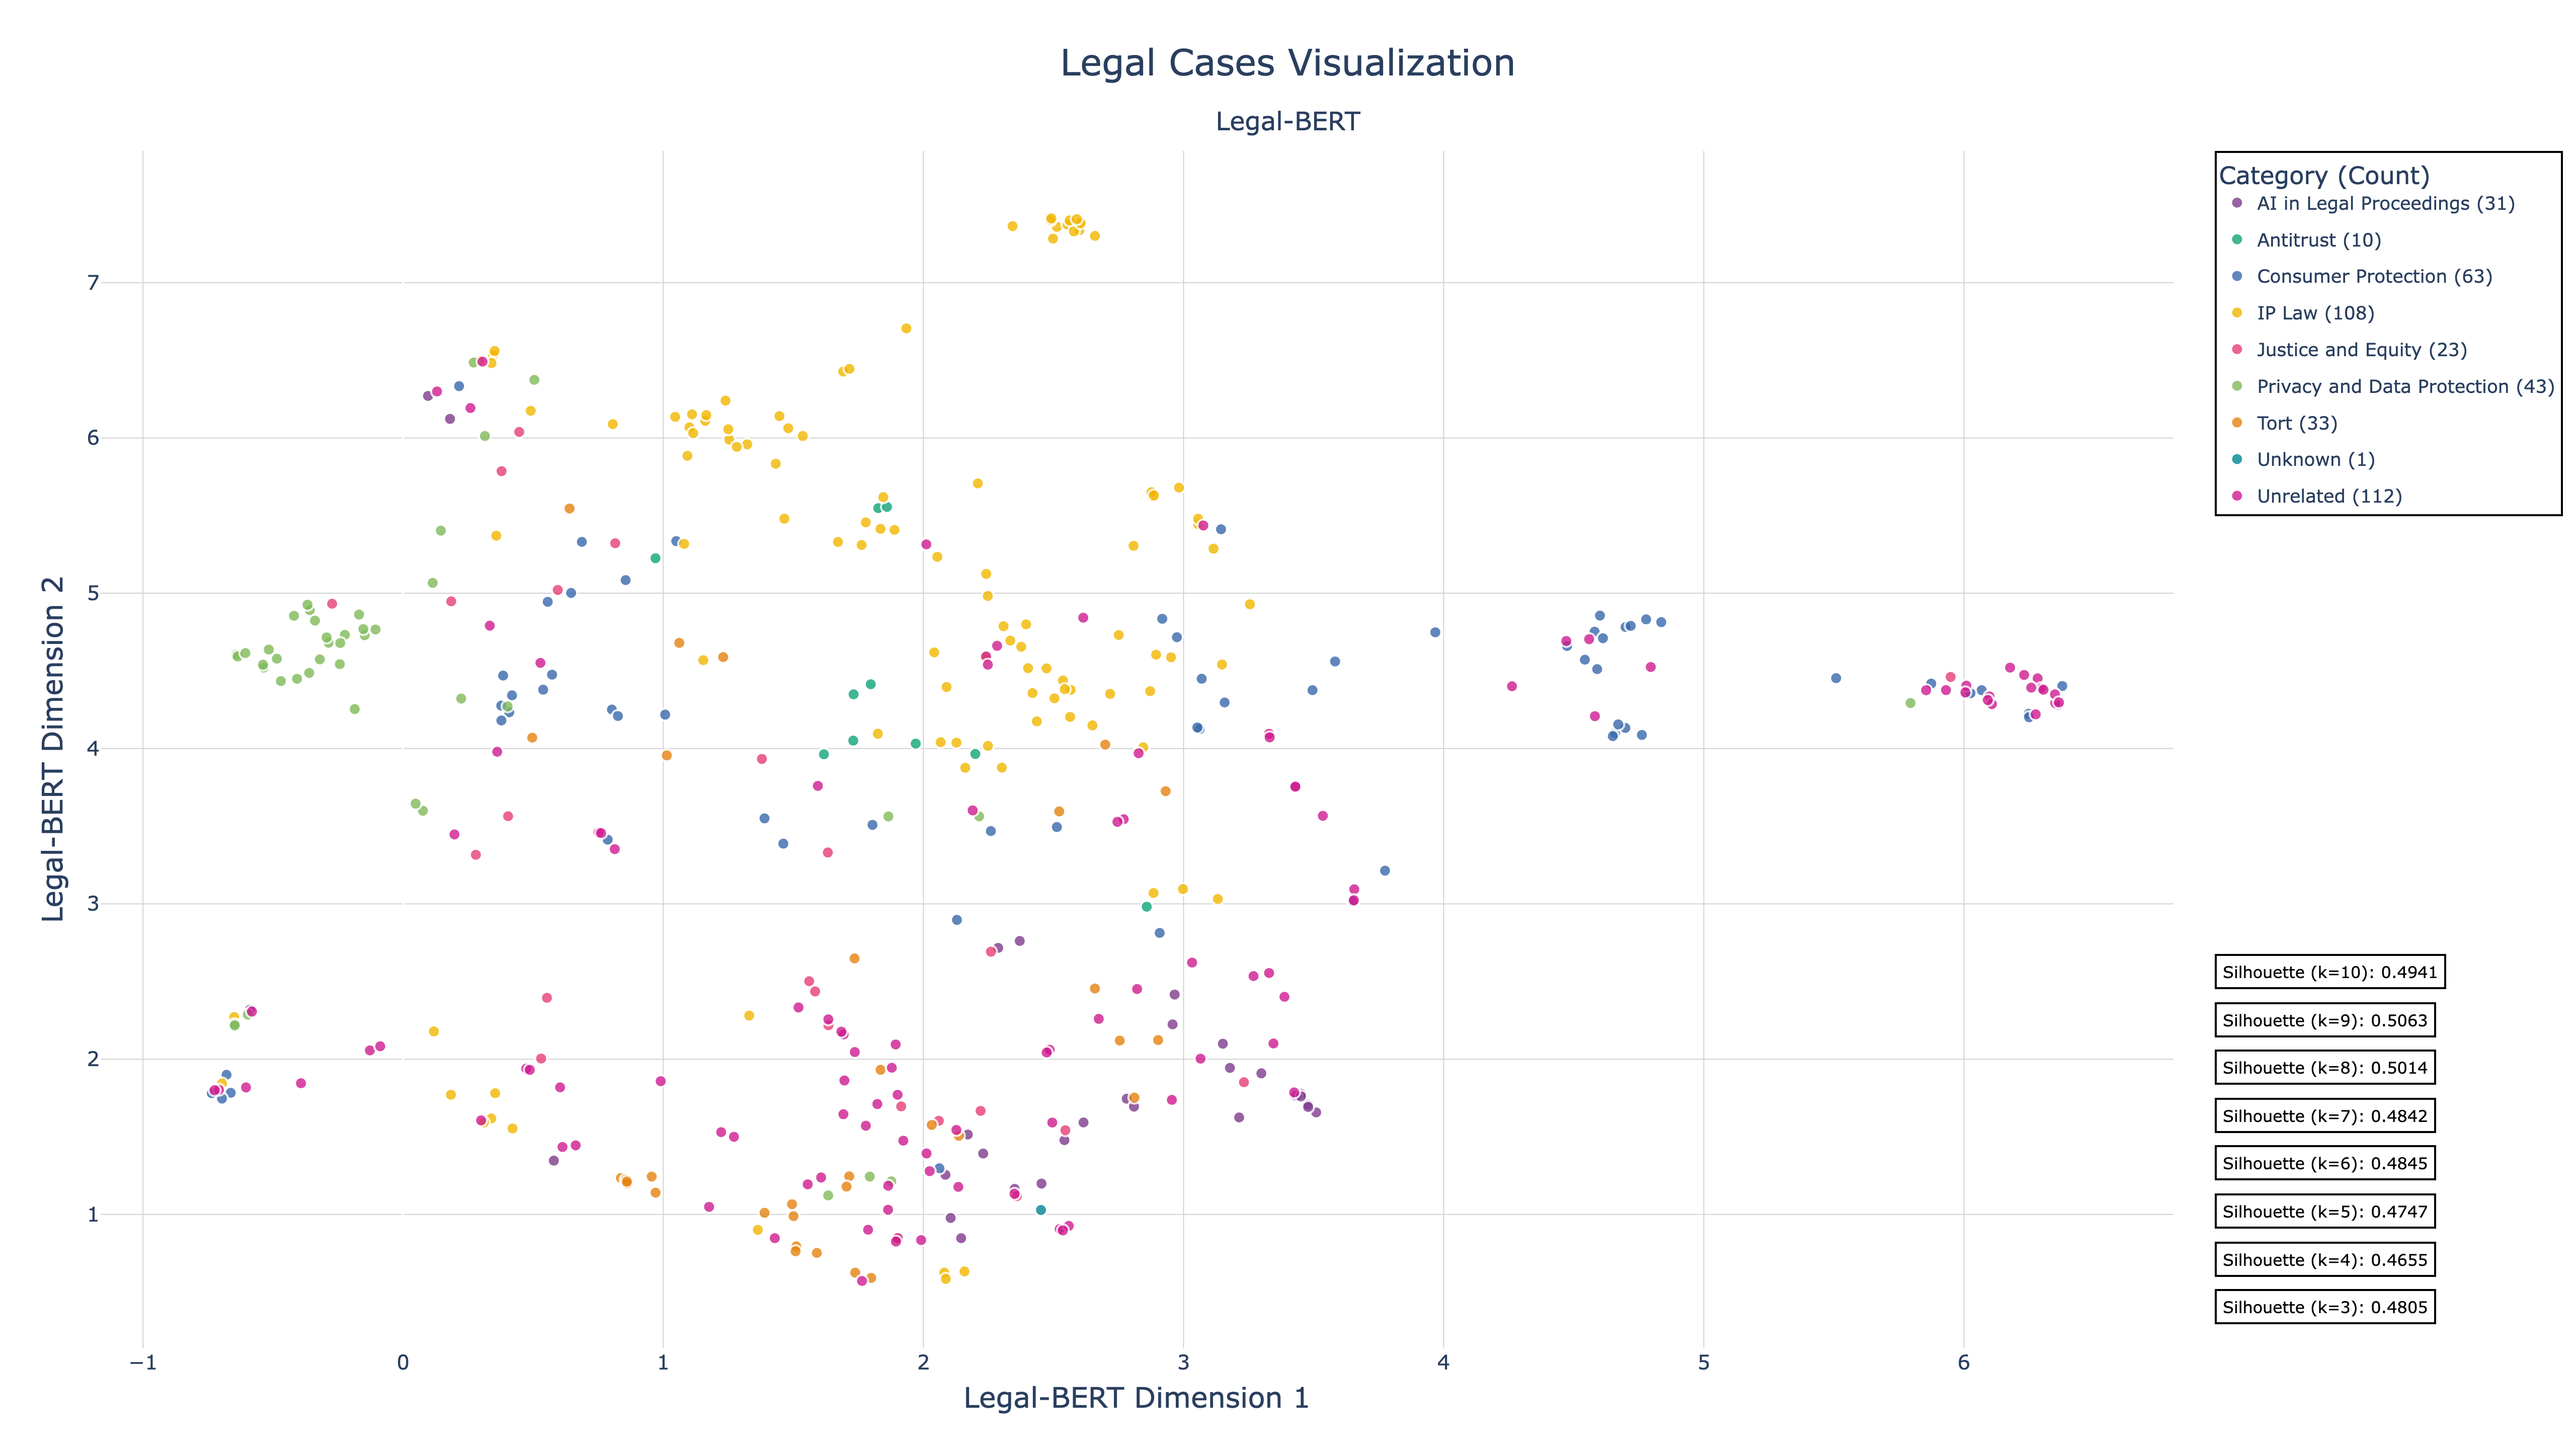
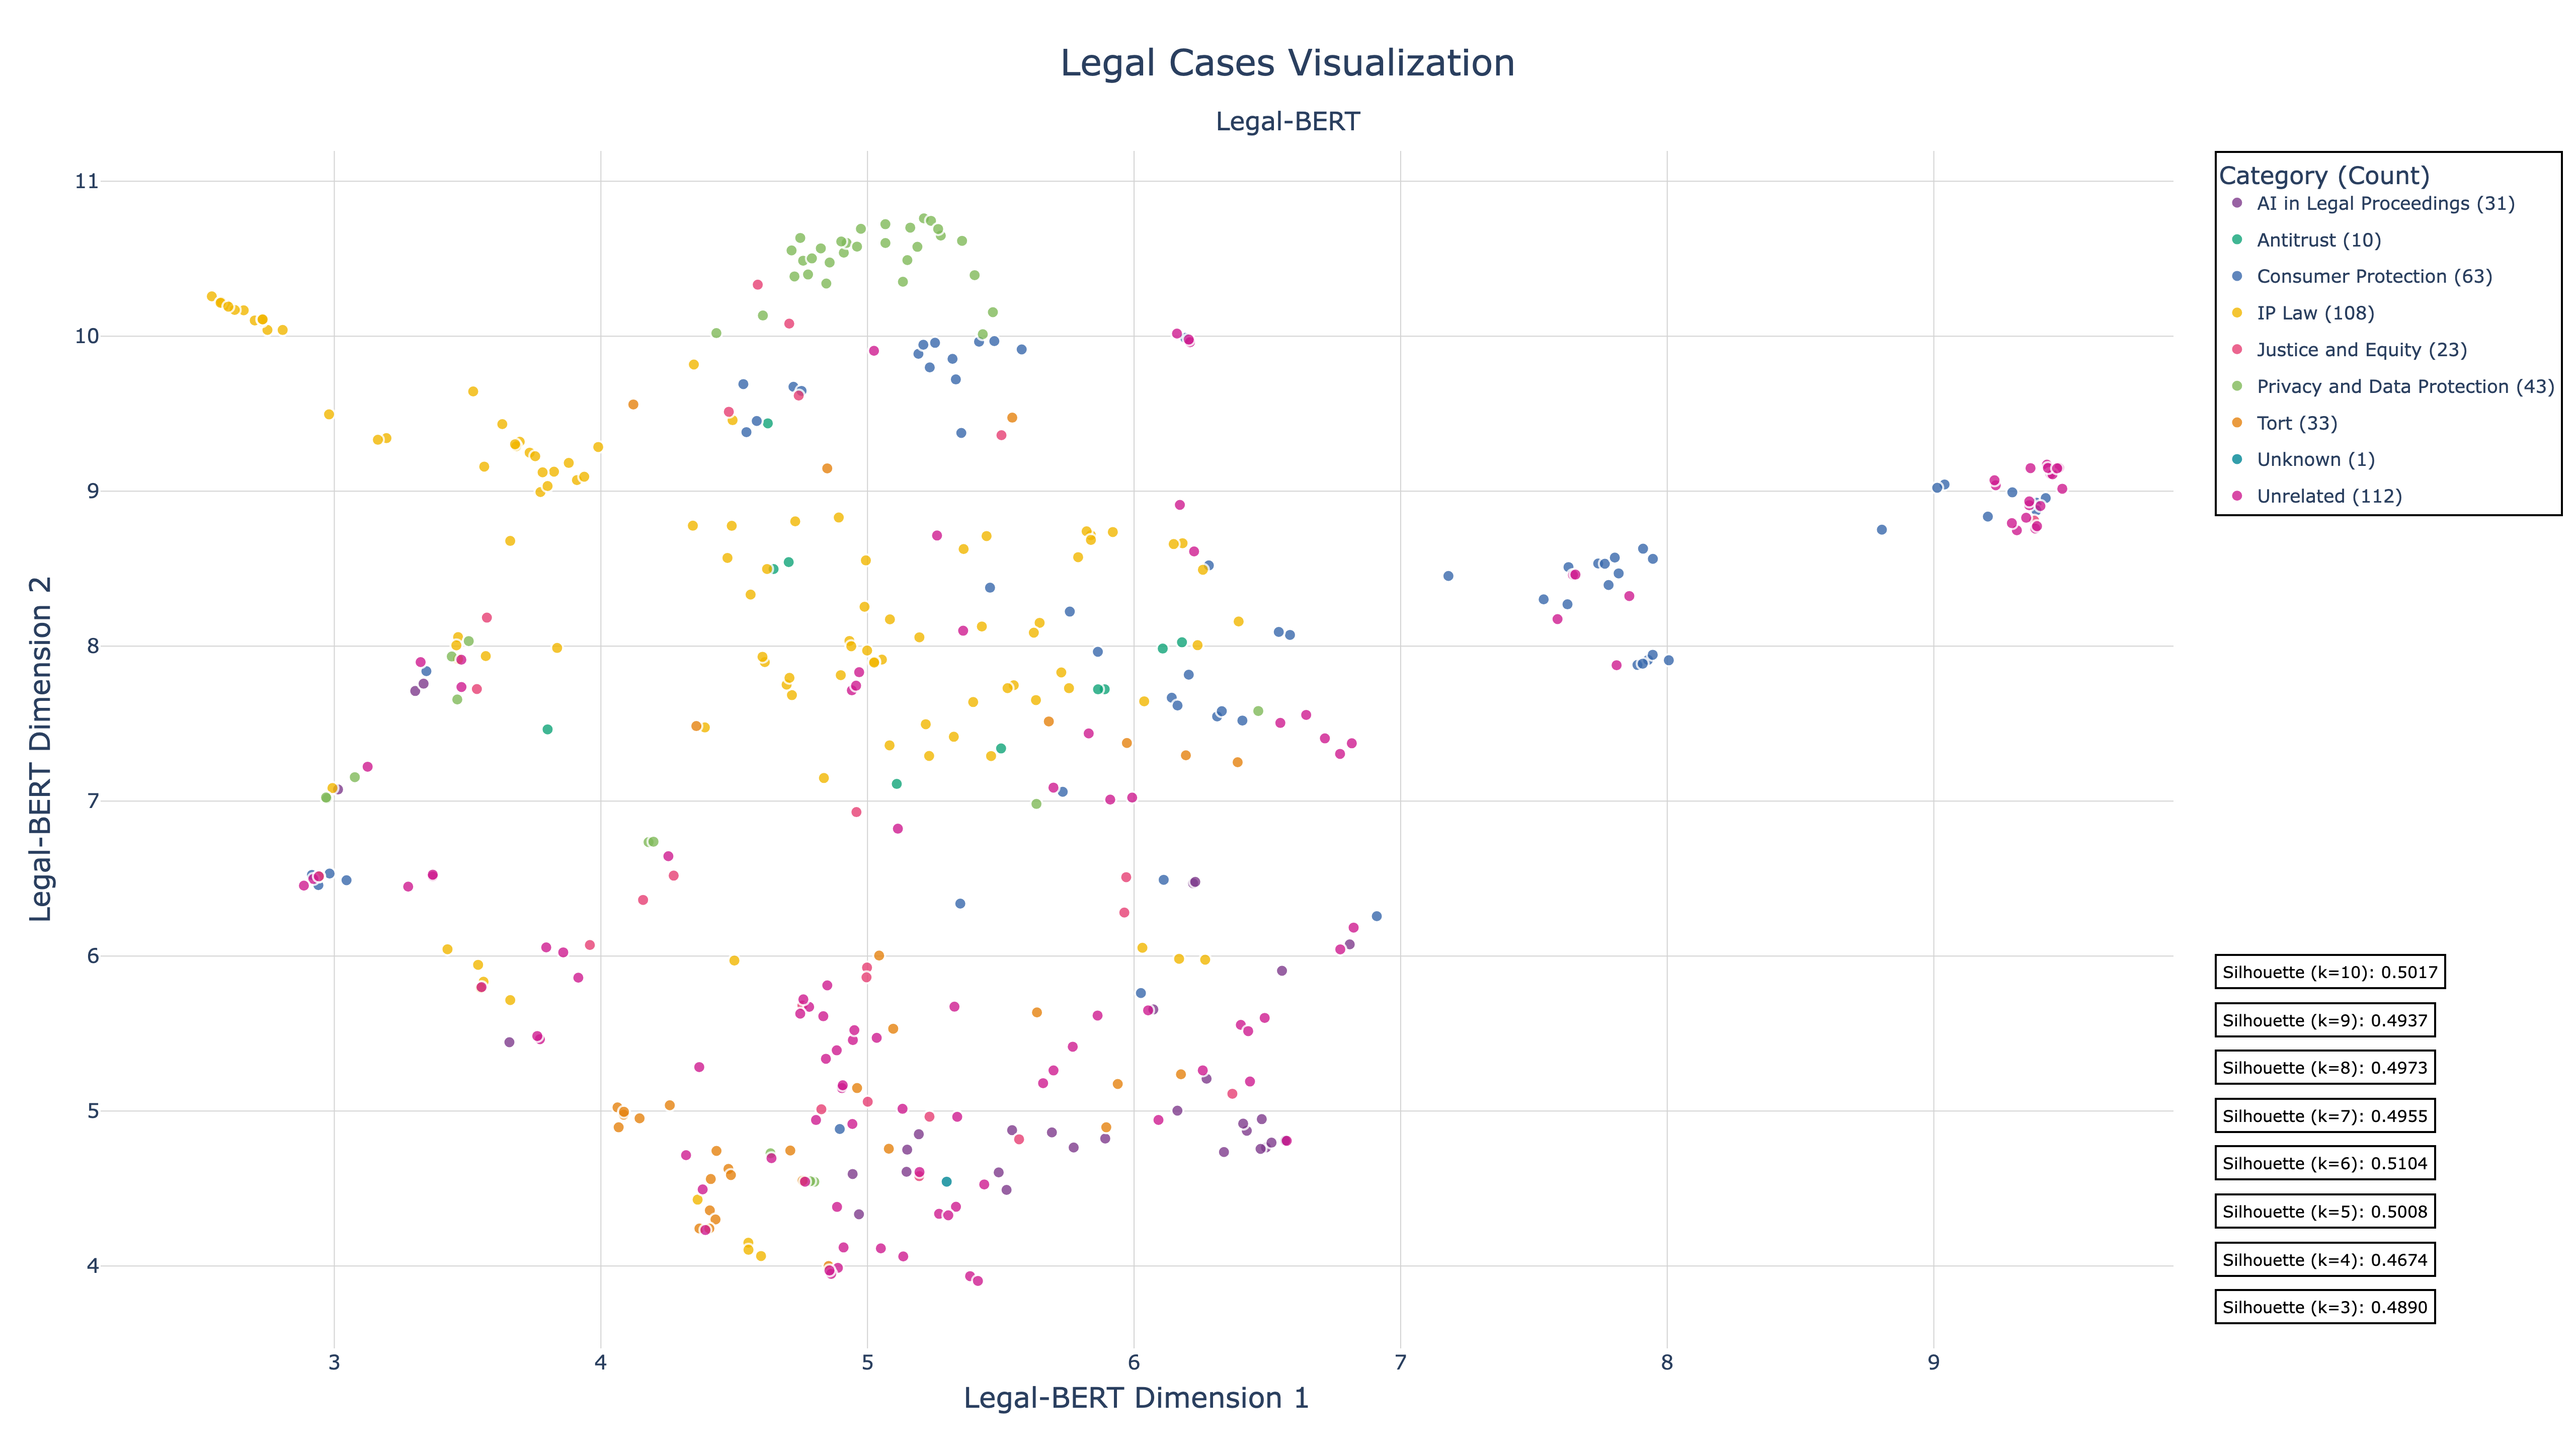
HDBSCAN

diff --git a/hdbscan_vis_getter_summary.py b/hdbscan_vis_getter_summary.py
@@ -9,6 +9,7 @@ from collections import Counter
 import textwrap
 import re
 import hdbscan
+from sklearn.metrics import silhouette_score
 
 # ---------------------------
 # Config
@@ -16,9 +17,8 @@ import hdbscan
 DIR_PATH = 'STEP 2: get embed/summaries/categorized_cases.json'
 UMAP_EMBED = 'STEP 3: umap/summary/umap_embedding.npy'
 TEXT_TYPE = "summary"
-MIN_DIST = 0.01
-N_NEIGHBORS = 15
-
+MIN_CLUSTER_SIZE = 10
+MIN_SAMPLES = 10
 
 # ---------------------------
 # Helpers
@@ -60,21 +60,42 @@ def wrap_text(text, width=60):
     """Helper function to wrap text for better display"""
     return '<br>'.join(textwrap.wrap(str(text), width=width))
 
-def perform_hdbscan(embedding, min_cluster_size=10, min_samples=10):
+def perform_hdbscan(embedding):
     """Perform HDBSCAN clustering on UMAP embeddings."""
     clusterer = hdbscan.HDBSCAN(
-        min_cluster_size=min_cluster_size,
-        min_samples=min_samples,
+        min_cluster_size=MIN_CLUSTER_SIZE,
+        min_samples=MIN_SAMPLES,
         gen_min_span_tree=True
     )
     labels = clusterer.fit_predict(embedding)
     return labels, clusterer
 
+def calculate_hdbscan_silhouette(X, labels):
+    """
+    Calculate silhouette score for HDBSCAN clustering.
+    Returns None if there are fewer than 2 clusters (ignoring noise).
+    """
+    # Filter out noise points (-1)
+    mask = labels != -1
+    if mask.sum() == 0:
+        print("All points classified as noise, cannot compute silhouette.")
+        return None
+    
+    unique_clusters = set(labels[mask])
+    if len(unique_clusters) < 2:
+        print(f"Only {len(unique_clusters)} cluster found (ignoring noise). Cannot compute silhouette.")
+        return None
+
+    score = silhouette_score(X[mask], labels[mask])
+    print(f"HDBSCAN silhouette score: {score:.4f} (computed on {mask.sum()} points)")
+    return score
+
 
 def create_interactive_visualization_hdbscan(
-    embedding, titles, ai_materials, all_categories, hdbscan_labels, embedding_method="Legal-BERT"
+    embedding, titles, ai_materials, all_categories, hdbscan_labels,
+    silhouette_score_val=None, embedding_method="Legal-BERT"
 ):
-    """Create UMAP visualization with HDBSCAN clustering on top."""
+    """Create UMAP visualization with HDBSCAN clustering on top, with silhouette score text."""
     output_file = ('hdbscan_' + embedding_method + '_' + TEXT_TYPE + '.png')
 
     # Convert -1 (noise) to string
@@ -128,9 +149,14 @@ def create_interactive_visualization_hdbscan(
                               '<extra></extra>'
             ))
 
+    # Add silhouette score info
+    subtitle = embedding_method
+    if silhouette_score_val is not None:
+        subtitle += f" | Silhouette score: {silhouette_score_val:.3f}"
+
     fig.update_layout(
         title={
-            'text': 'Legal Cases Visualization with HDBSCAN<br><sub>' + embedding_method + '</sub>',
+            'text': f'Legal Cases Visualization with HDBSCAN<br><sub>{subtitle}</sub>',
             'x': 0.5,
             'font': {'size': 36}
         },
@@ -173,6 +199,7 @@ def create_interactive_visualization_hdbscan(
     return fig
 
 
+
 # ---------------------------
 # Main entry
 # ---------------------------
@@ -190,12 +217,15 @@ def main():
 
     # Run HDBSCAN
     print("Running HDBSCAN clustering...")
-    hdbscan_labels, clusterer = perform_hdbscan(embedding_umap, min_cluster_size=5)
+    hdbscan_labels, clusterer = perform_hdbscan(embedding_umap)
+
+    silhouette_score_hdb = calculate_hdbscan_silhouette(embedding_umap, hdbscan_labels)
 
     # Create visualization
     print("Creating interactive visualization with HDBSCAN...")
     fig = create_interactive_visualization_hdbscan(
-        embedding_umap, titles, ai_materials, all_categories, hdbscan_labels
+        embedding_umap, titles, ai_materials, all_categories, hdbscan_labels,
+        silhouette_score_val=silhouette_score_hdb
     )
 
     return embedding_umap, titles, hdbscan_labels, fig

diff --git a/STEP 3: umap/summary/umap_vis_getter_summary.py b/STEP 3: umap/summary/umap_vis_getter_summary.py
@@ -211,7 +211,9 @@ def calculate_silhouette_scores(X, embedding_method, k_range, random_state=42):
             print("Silhouette score for k =", k, "is", score)
             scores[k] = score
     print("Highest sihouette score:", max(scores.values()), "for k =", max(scores, key=scores.get))
-    return scores
+    if (max(scores.values()) >= 0.51):
+        is_greater = True
+    return (is_greater, scores)
 
 def perform_umap(features):
     """Perform UMAP dimensionality reduction"""
@@ -234,6 +236,7 @@ def perform_umap(features):
 
 def main():
     print("Loading and processing data...")
+    
     df, processed_cases = load_and_process_data()  # Use the new loader
 
     # Extract data for processing
@@ -249,12 +252,12 @@ def main():
     embedding_path = EMBEDDING_DIR
     embedding_method = embedding_path.split('/')[-1].split('_')[0]
     embedding = np.load(embedding_path)
+    is_greater = False
+    while not is_greater:
+        embedding_umap, reducer = perform_umap(embedding)
 
-    # Apply UMAP
-    embedding_umap, reducer = perform_umap(embedding)
-
-    # Clustering + silhouette scores
-    silhouette_scores = calculate_silhouette_scores(embedding_umap, embedding_method, range(3, 11))
+        # Clustering + silhouette scores
+        is_greater, silhouette_scores = calculate_silhouette_scores(embedding_umap, embedding_method, range(3, 11))
 
     # Create visualization
     print("Creating interactive visualization...")
